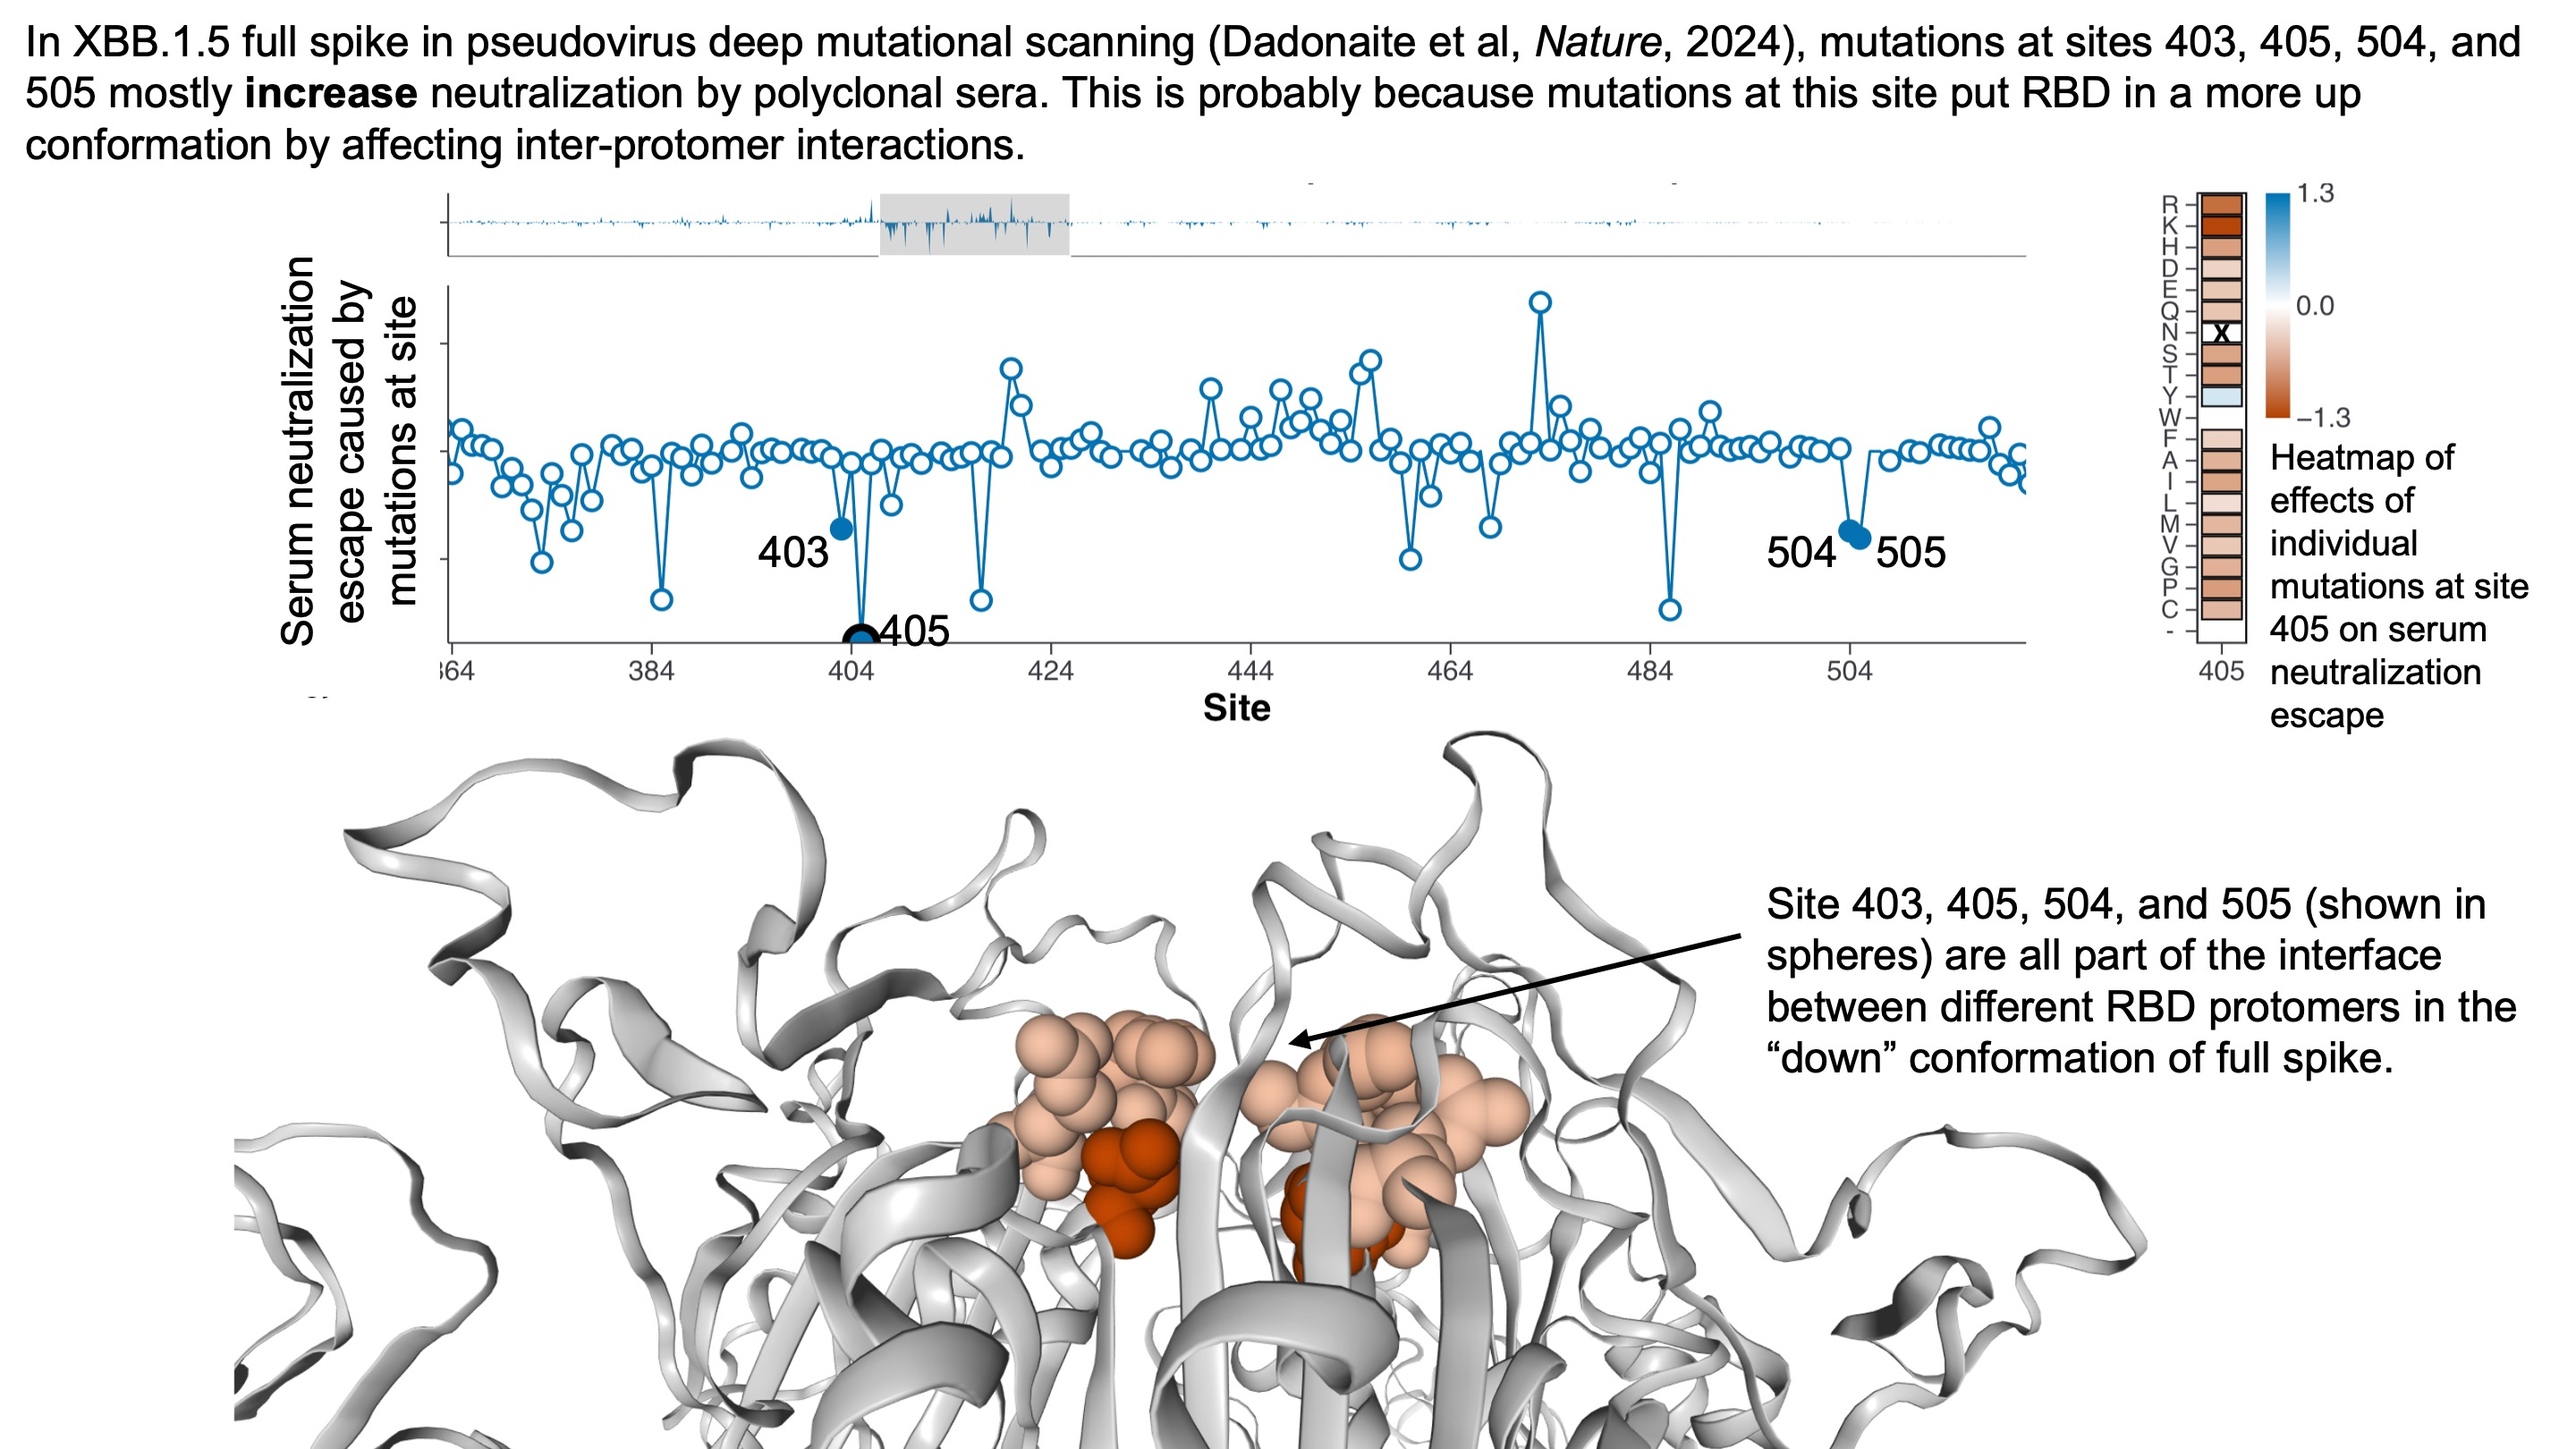
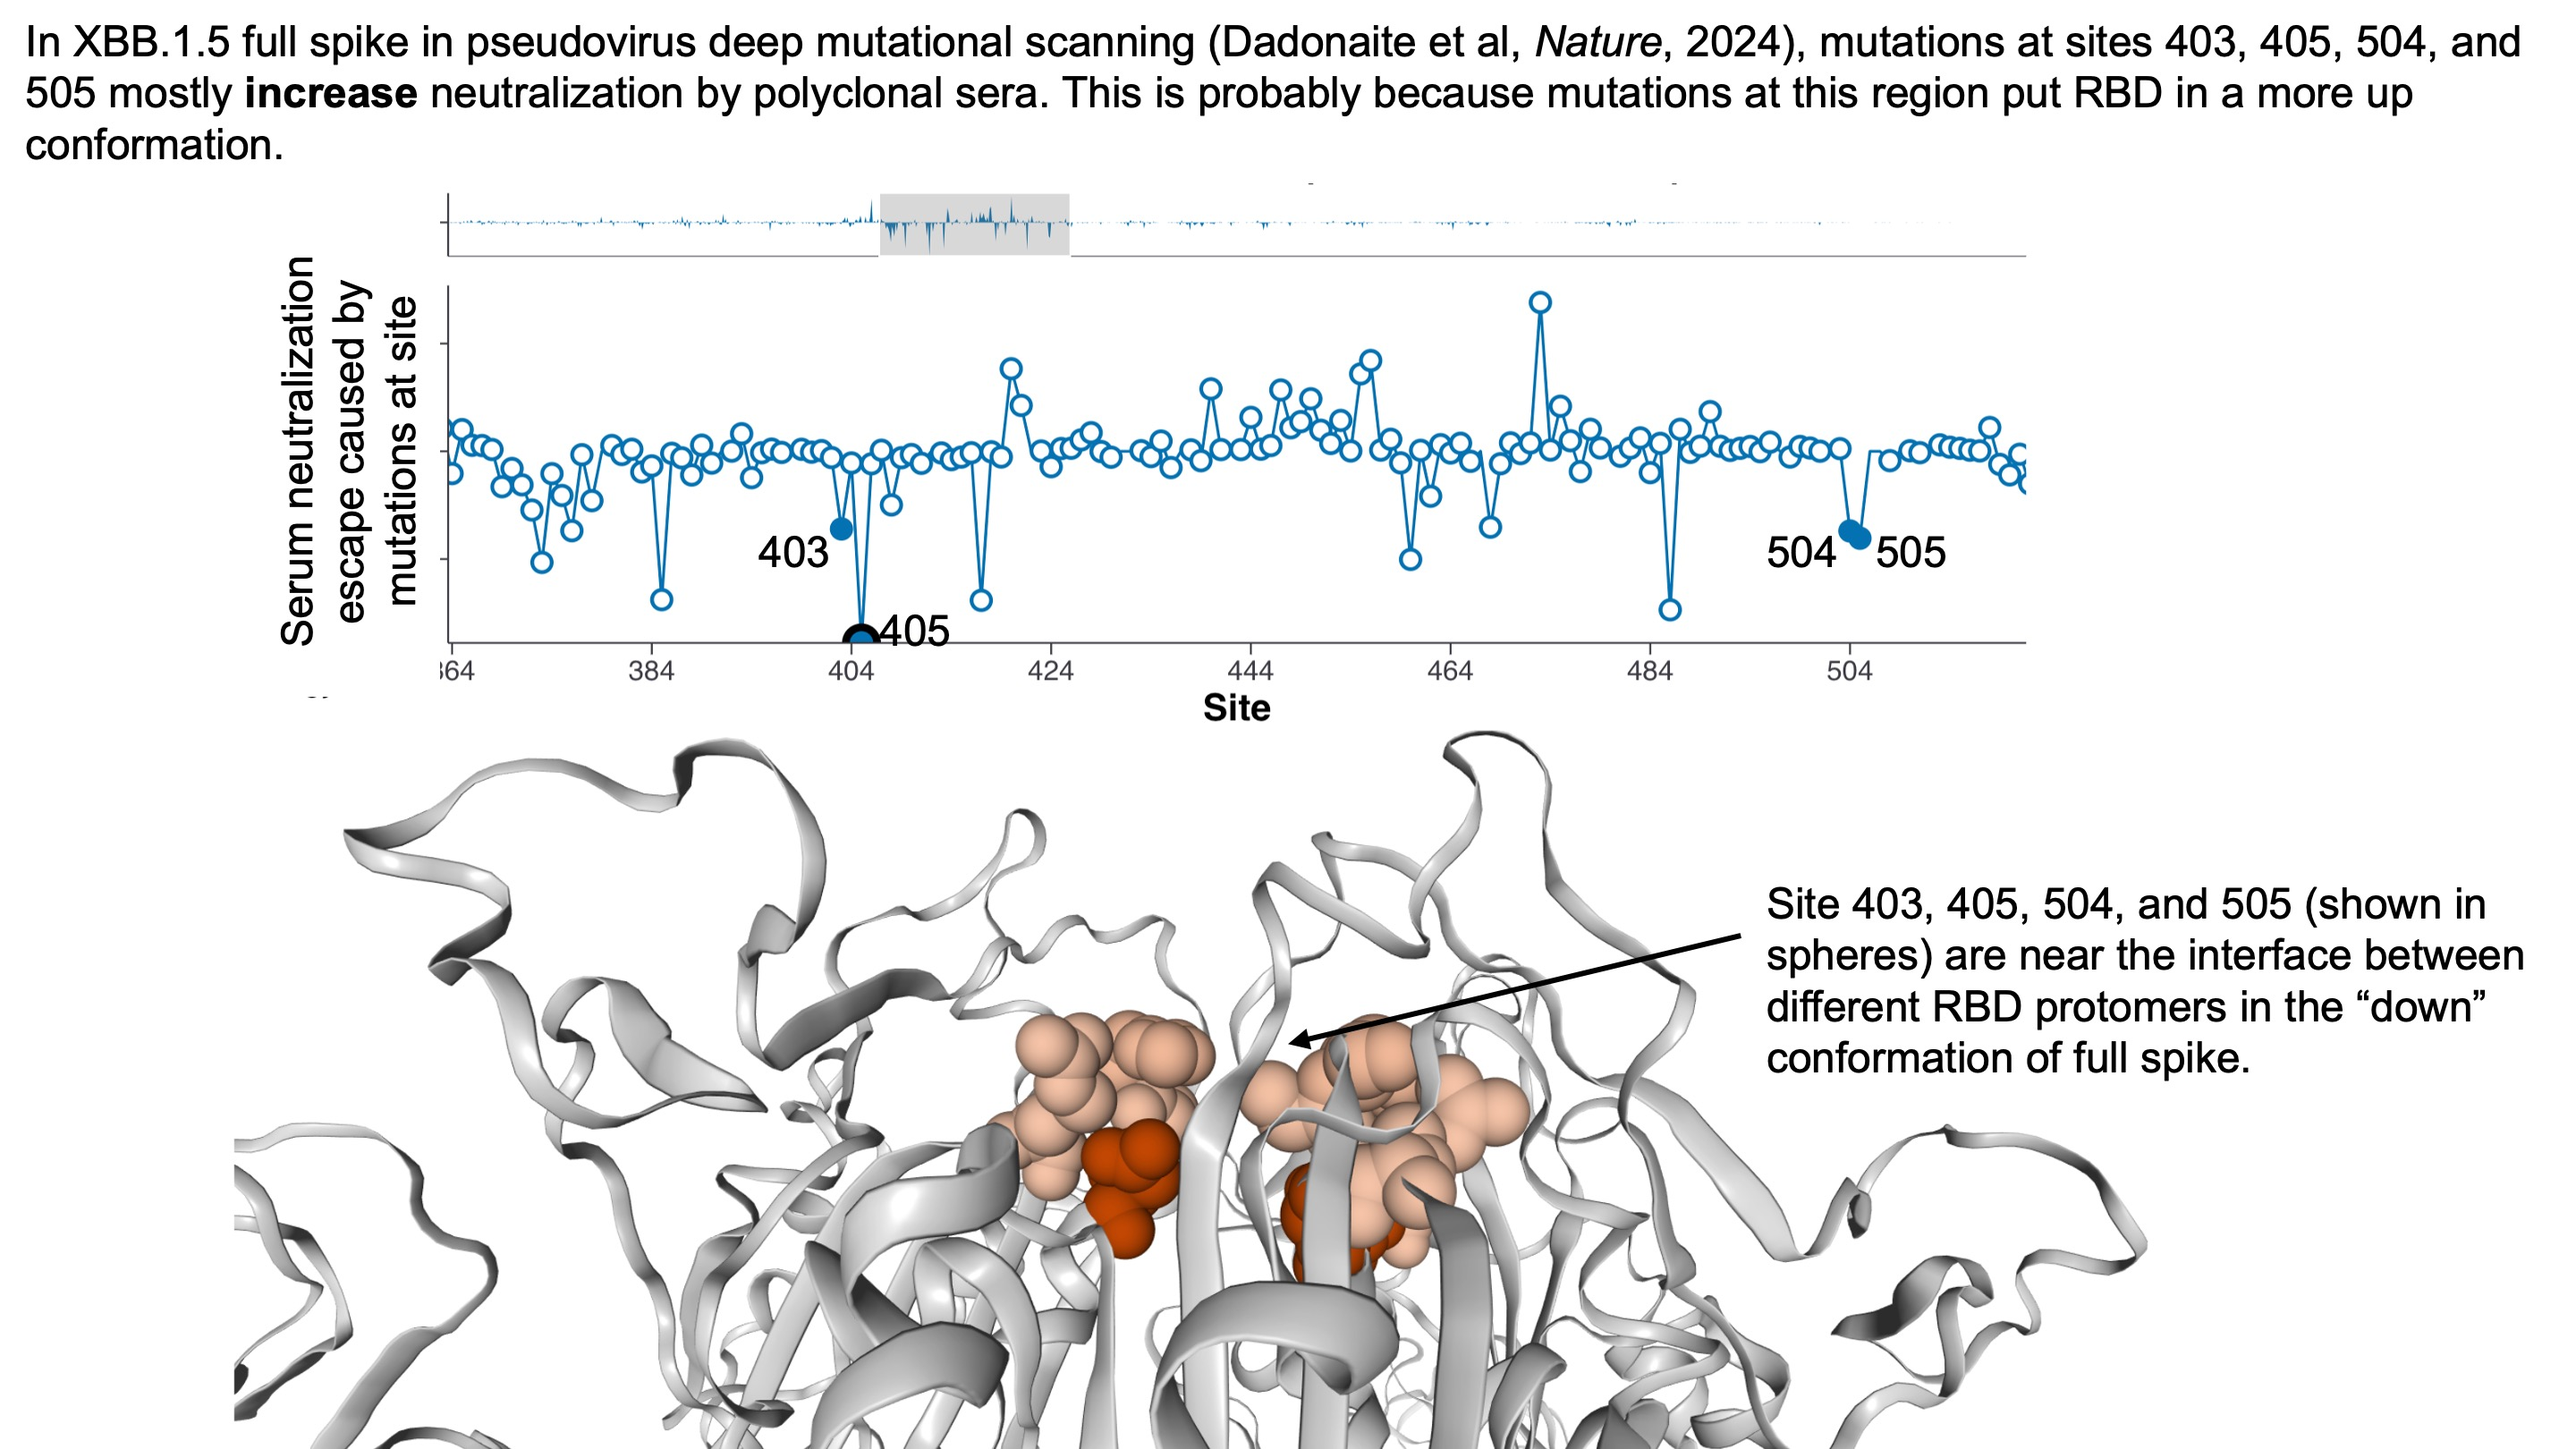
edits to `2024-11-20_escapecalc_update` suggested by Bernadeta

diff --git a/posts/2024-11-20_escapecalc_update.md b/posts/2024-11-20_escapecalc_update.md
@@ -17,11 +17,11 @@ See the [original paper](https://academic.oup.com/ve/article/8/1/veac021/6549895
 The current calculator shows data from a wonderful set of deep mutational scanning studies by the lab of Yunlong Cao (eg, [Cao et al (2023)](https://www.nature.com/articles/s41586-022-05644-7), [Yisimaya et al (2024)](https://www.nature.com/articles/s41586-023-06753-7), and [Jian et al (2024)](https://www.nature.com/articles/s41586-024-08315-x)).
 The current update adds the deep mutational scanning data from the last of these papers ([Jian et al (2024)](https://www.nature.com/articles/s41586-024-08315-x)), which incorporates antibodies from people with XBB or JN.1 lineage infections.
 
-If you use the calculator to compare the sites of escape in the KP.3 variant from the current set of antibodies versus the original RBD from antibodies elicited by the ancestral vaccine, it is remarkable how much the antigenicity (key sites of escape) in the RBD hvae changed over the last four years:
+If you use the calculator to compare the sites of escape in the KP.3 variant from the current set of antibodies versus the original RBD from antibodies elicited by the ancestral vaccine, it is remarkable how much the antigenicity (key sites of escape) in the RBD have changed over the last four years:
 
 ![change_in_key_sites](/assets/research/2024-11-10_escapecalc_update/change_in_key_sites.jpg)
 
-Note that unlike the logo plots in the [Cao lab papers](https://www.nature.com/articles/s41586-024-08315-x), the escap calculator is **not** weighted by how mutations affect ACE2 binding or their amino-acid accessibility given the genetic code.
+Note that unlike the logo plots in the [Cao lab papers](https://www.nature.com/articles/s41586-024-08315-x), the escape calculator is **not** weighted by how mutations affect ACE2 binding or their amino-acid accessibility given the genetic code.
 So the calculator is designed to quantify the antigenic effect if a site is mutated, not predict how likely it is to mutate.
 
 The strongest sites of escape from binding by neutralizing antibodies targeting the RBD are shown in the plot below, and fall in three different epitopes in the Cao lab nomenclature:
@@ -44,7 +44,7 @@ And most mutations at those sites actually **increase** neutralization by polycl
 
 ![F3_epitope](/assets/research/2024-11-10_escapecalc_update/F3_epitope.jpg)
 
-In our [recent paper](https://www.nature.com/articles/s41586-024-07636-1), we showed that sites that modulate RBD up-down positioning are characterized by opposing effects on full-spike ACE2 binding and polyclonal serum neutralization.
+The data in our [recent paper](https://www.nature.com/articles/s41586-024-07636-1) indicates that sites that modulate RBD up-down positioning are characterized by opposing effects on full-spike ACE2 binding and polyclonal serum neutralization.
 In particular, mutations that move the RBD more to an up conformation increase binding to ACE2 by the full spike (since the RBD is better poised to bind ACE2), but also increase serum neutralization since the RBD in the up conformation exposes more neutralizing epitopes.
 Importantly, these effects are not apparent in deep mutational scanning of just yeast-displayed RBD, since the RBD is outside the context of the full spike.
 If you look at our pseudovirus deep mutational scanning data (the full data can be interactively explored [here](https://dms-vep.org/SARS-CoV-2_XBB.1.5_spike_DMS/htmls/summary_overlaid.html)), you can see that most mutations at sites 403, 405, and 504 increase full-spike serum antibody neutralization while also increasing full-spike ACE2 binding, suggesting the put the RBD in a more up conformation. (For site 505, it is more complicated because mutations at this site often also directly impair the direct 1:1 RBD-ACE2 binding, as can be seen [here](https://tstarrlab.github.io/SARS-CoV-2-RBD_DMS_Omicron-EG5-FLip-BA286/RBD-heatmaps/)).
